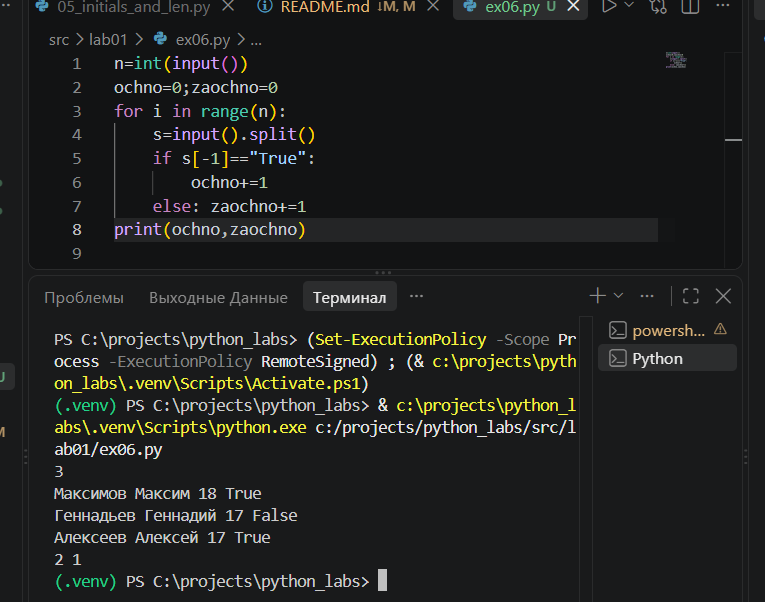
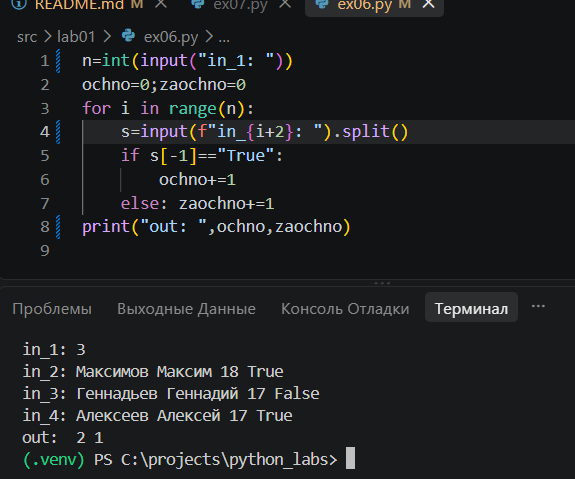
0

diff --git a/src/lab01/05_initials_and_len.py b/src/lab01/05_initials_and_len.py
@@ -1,3 +1,3 @@
 f,i,o = input("ФИО: ").split()
-print(f"Инициалы: {f[0]}{i[0]}{o[0]}")
-print(f"Длина (символов): {len(f)+len(i)+len(o)+2}.")
+print(f"Инициалы: {f[0]}{i[0]}{o[0]}.")
+print(f"Длина (символов): {len(f)+len(i)+len(o)+2}")

diff --git a/src/lab01/ex06.py b/src/lab01/ex06.py
@@ -1,8 +1,8 @@
-n=int(input())
+n=int(input("in_1: "))
 ochno=0;zaochno=0
 for i in range(n):
-    s=input().split()
+    s=input(f"in_{i+2}: ").split()
     if s[-1]=="True":
         ochno+=1
     else: zaochno+=1
-print(ochno,zaochno)
+print("out: ",ochno,zaochno)

diff --git a/src/lab01/04_minutes_to_hhmm.py b/src/lab01/04_minutes_to_hhmm.py
@@ -1,2 +1,4 @@
 m=int(input("Минуты: "))
+days = m // 1440 
+m = m - days * 1440 
 print(f"{m//60}:{m%60:02d}")

diff --git a/README.md b/README.md
@@ -1,7 +1,7 @@
 # Лабораторная работа №1 - Ввод/вывод и форматирование
 
 ## задание 1
-Поздаровались и вывели возраст человека через год.
+Поздоровались и вывели возраст человека через год.
 ![task1](images/lab01/img01.png)
 
 ## задание 2
